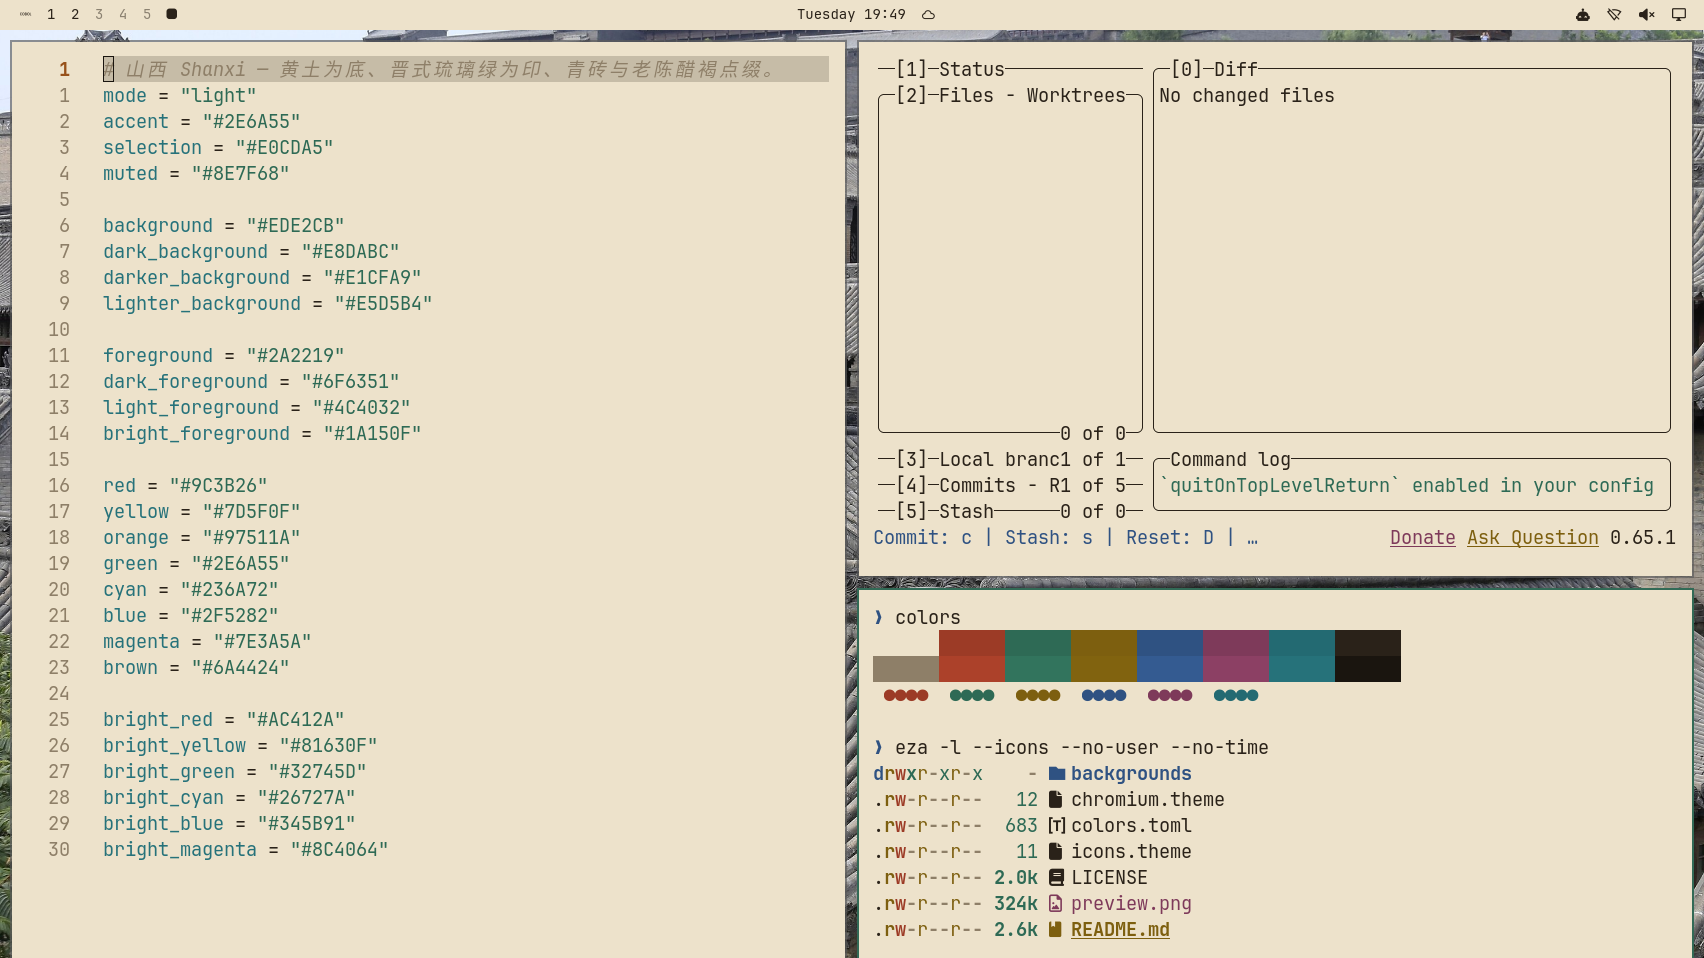
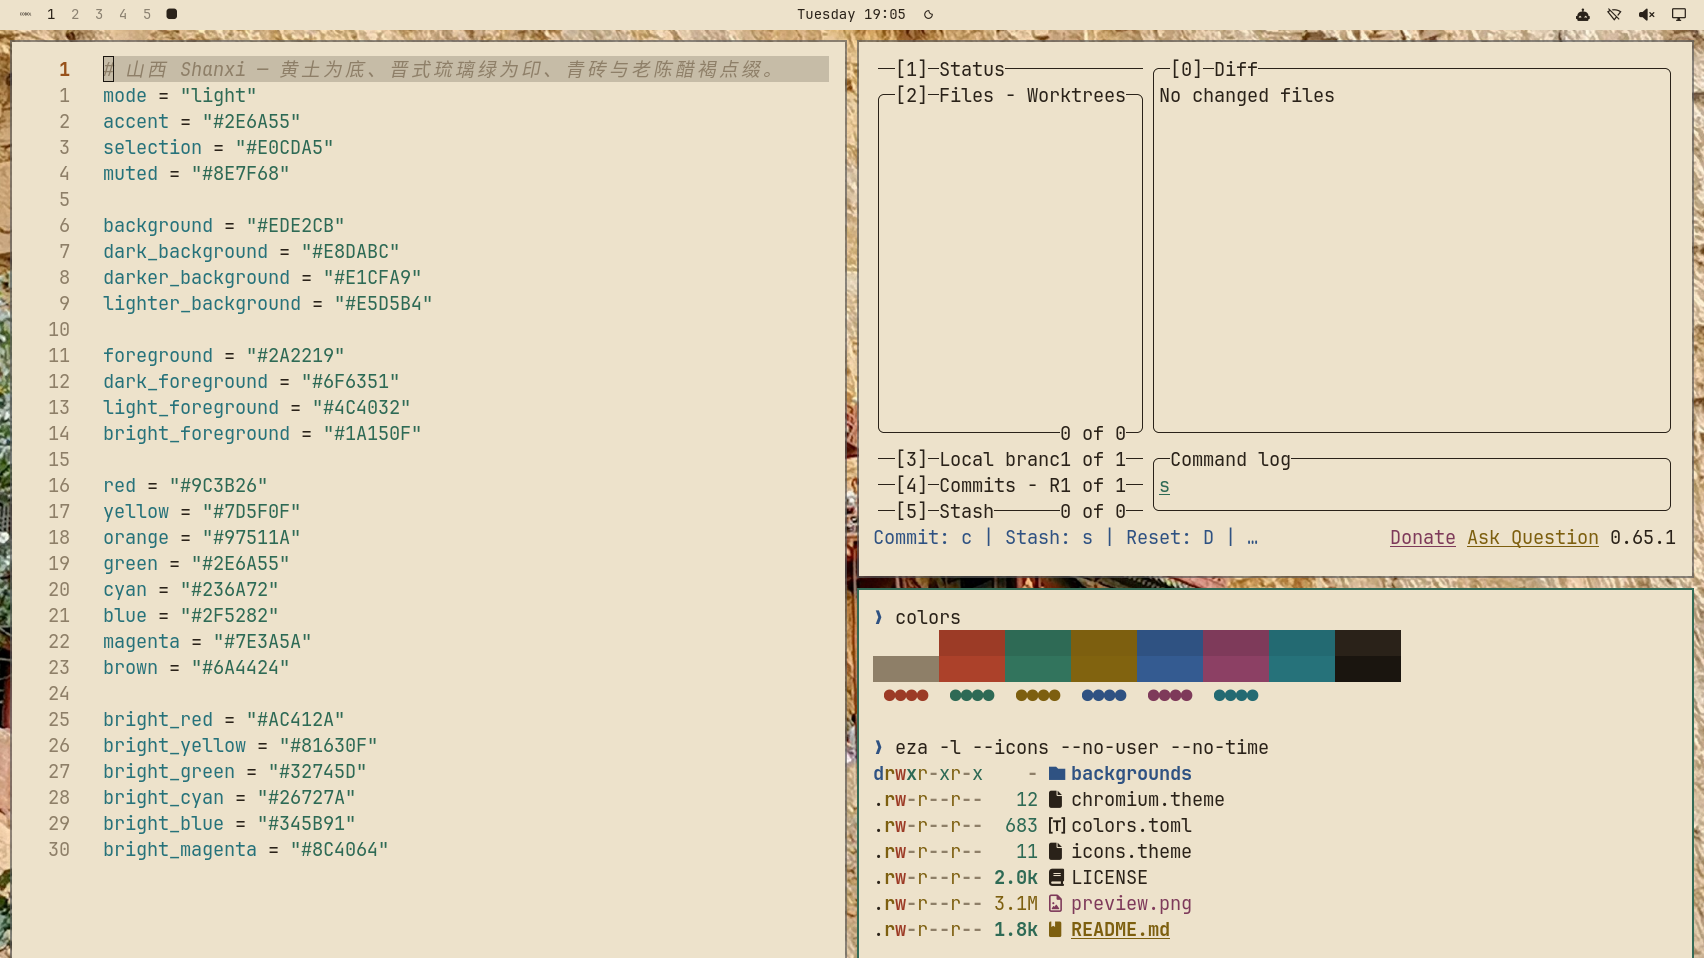
调整壁纸为 8 张：悬空寺、应县木塔、壶口瀑布、云冈石窟、晋祠、晋剧

Changed region(s): [[0.0, 0.0303, 1.0, 1.0], [0.591, 0.9384, 0.6221, 0.9687]]

diff --git a/README.md b/README.md
@@ -1,6 +1,6 @@
 # 山西 Shanxi
 
-黄土为底、晋式琉璃绿为印、青砖与老陈醋褐点缀的浅色主题。壁纸：王家大院、平遥古城、大同古建、五台山、南禅寺、晋祠、雁门关、广胜寺飞虹塔。
+黄土为底、晋式琉璃绿为印、青砖与老陈醋褐点缀的浅色主题。壁纸：悬空寺、应县木塔、壶口瀑布、云冈石窟、晋祠、晋剧。
 
 ![preview](preview.png)
 
@@ -12,16 +12,14 @@ omarchy theme install https://github.com/rwanglq-ctrl/omarchy-shanxi-theme
 
 ## 壁纸来源
 
-1. [Lingshi Jingsheng Wangjia Dayuan 2013.08.24 14-14-08.jpg](https://commons.wikimedia.org/wiki/File:Lingshi_Jingsheng_Wangjia_Dayuan_2013.08.24_14-14-08.jpg) — Zhangzhugang，CC BY-SA 3.0（Wikimedia Commons）；已裁切、缩放
-2. [平遥古城市楼与红灯笼](https://unsplash.com/photos/a-group-of-people-walking-down-a-street-next-to-tall-buildings-Q0BqoqlvEtk) — Shane Lopez，Unsplash License（Unsplash）
-3. [大同古建红墙铜铃](https://unsplash.com/photos/traditional-chinese-architecture-with-bells-CgLm2ywkaO8) — Wenying Yuan，Unsplash License（Unsplash）
-4. [中國山西五台山世界遺產S588.jpg](https://commons.wikimedia.org/wiki/File:%E4%B8%AD%E5%9C%8B%E5%B1%B1%E8%A5%BF%E4%BA%94%E5%8F%B0%E5%B1%B1%E4%B8%96%E7%95%8C%E9%81%BA%E7%94%A2S588.jpg) — 林高志，CC BY-SA 4.0（Wikimedia Commons）；已裁切、缩放
-5. [Mount Wutai.JPG](https://commons.wikimedia.org/wiki/File:Mount_Wutai.JPG) — Zcm11，CC BY-SA 3.0（Wikimedia Commons）；已裁切、缩放
-6. [南禅寺大殿右侧面.jpg](https://commons.wikimedia.org/wiki/File:%E5%8D%97%E7%A6%85%E5%AF%BA%E5%A4%A7%E6%AE%BF%E5%8F%B3%E4%BE%A7%E9%9D%A2.jpg) — Patrick20242023，CC BY-SA 4.0（Wikimedia Commons）；已裁切、缩放
-7. [晋祠圣母殿侧面.jpg](https://commons.wikimedia.org/wiki/File:%E6%99%8B%E7%A5%A0%E5%9C%A3%E6%AF%8D%E6%AE%BF%E4%BE%A7%E9%9D%A2.jpg) — Patrick20242023，CC BY-SA 4.0（Wikimedia Commons）；已裁切、缩放
-8. [晋祠水镜台正面.jpg](https://commons.wikimedia.org/wiki/File:%E6%99%8B%E7%A5%A0%E6%B0%B4%E9%95%9C%E5%8F%B0%E6%AD%A3%E9%9D%A2.jpg) — Patrick20242023，CC BY-SA 4.0（Wikimedia Commons）；已裁切、缩放
-9. [Yanmenguan3.JPG](https://commons.wikimedia.org/wiki/File:Yanmenguan3.JPG) — Underbar dk，CC BY-SA 4.0（Wikimedia Commons）；已裁切、缩放
-10. [广胜寺 04.JPG](https://commons.wikimedia.org/wiki/File:%E5%B9%BF%E8%83%9C%E5%AF%BA_04.JPG) — Artsxiang，CC BY-SA 3.0（Wikimedia Commons）；已裁切、缩放
+1. [悬空寺](https://unsplash.com/photos/brown-and-black-wooden-temple-etGv_yTBvh0) — Snowscat，Unsplash License（Unsplash）
+2. [应县木塔（仰视）](https://unsplash.com/photos/ancient-wooden-pagoda-and-white-statue-against-blue-sky-AzAMjRk2luU) — X F，Unsplash License（Unsplash）
+3. [Hukou Waterfall.jpg](https://commons.wikimedia.org/wiki/File:Hukou_Waterfall.jpg) — Leruswing，CC BY-SA 3.0（Wikimedia Commons）；已裁切、缩放
+4. [20230609 Cave 20 of Yungang caves.jpg](https://commons.wikimedia.org/wiki/File:20230609_Cave_20_of_Yungang_caves.jpg) — Yumeto，CC BY-SA 4.0（Wikimedia Commons）；已裁切、缩放
+5. [云冈石窟大佛](https://unsplash.com/photos/a-statue-of-a-person-ONBBzsOCZLM) — Young Kane，Unsplash License（Unsplash）
+6. [晋祠圣母殿侧面.jpg](https://commons.wikimedia.org/wiki/File:%E6%99%8B%E7%A5%A0%E5%9C%A3%E6%AF%8D%E6%AE%BF%E4%BE%A7%E9%9D%A2.jpg) — Patrick20242023，CC BY-SA 4.0（Wikimedia Commons）；已裁切、缩放
+7. [晋祠水镜台正面.jpg](https://commons.wikimedia.org/wiki/File:%E6%99%8B%E7%A5%A0%E6%B0%B4%E9%95%9C%E5%8F%B0%E6%AD%A3%E9%9D%A2.jpg) — Patrick20242023，CC BY-SA 4.0（Wikimedia Commons）；已裁切、缩放
+8. [烂柯山下220040.jpg](https://commons.wikimedia.org/wiki/File:%E7%83%82%E6%9F%AF%E5%B1%B1%E4%B8%8B220040.jpg) — Augoustoshai，CC BY-SA 4.0（Wikimedia Commons）；已裁切、缩放
 
 ## 许可
 
